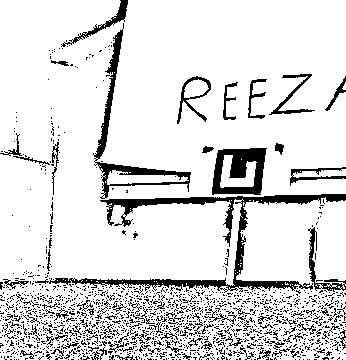
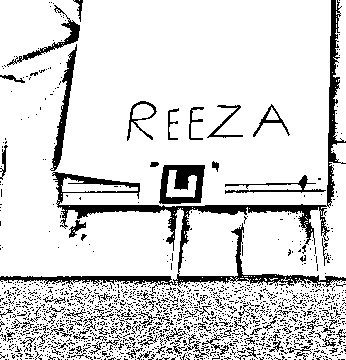
HELP ME

diff --git a/workspaces/mirte_ws/src/mirte_drawing/mirte_drawing/SandDrawer.py b/workspaces/mirte_ws/src/mirte_drawing/mirte_drawing/SandDrawer.py
@@ -137,8 +137,8 @@ LETTER_PITCH:   float = LETTER_WIDTH + LETTER_GAP
 
 # Base velocity topic. This Gazebo sim exposes /cmd_vel (geometry_msgs/Twist);
 # the real robot / other setups may use /mirte_base_controller/cmd_vel_unstamped.
-BASE_CMD_TOPIC: str   = "/mirte_base_controller/cmd_vel"
-ODOM_TOPIC:     str   = "/mirte_base_controller/odom"
+BASE_CMD_TOPIC: str   = "/cmd_vel"
+ODOM_TOPIC:     str   = "/odom"
 STRAFE_SPEED:   float = 0.05  # base strafe speed (m/s)
 STRAFE_SIGN:    float = -1.0  # +1 = base moves left (+y); -1 = right. Flip if word is mirrored
 STRAFE_TIMEOUT: float = 15.0  # safety: max seconds for one strafe before giving up

diff --git a/workspaces/mirte_ws/src/mirte_navigation/mirte_navigation/WhiteBoardTracker.py b/workspaces/mirte_ws/src/mirte_navigation/mirte_navigation/WhiteBoardTracker.py
@@ -225,7 +225,7 @@ class WhiteBoardTracker(Node):
         if self.mode == "RECOVERY":
             elapsed = time.time() - self.recovery_start
             if elapsed < 5.0:
-                cmd.linear.x = -0.1
+                pass
             elif elapsed < 3.0:
                 cmd.angular.z = -0.4 if self.last_angle > 0 else -0.4
             else: